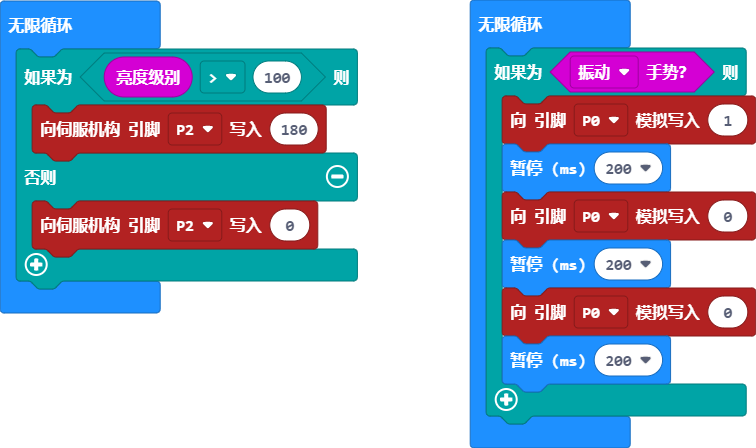
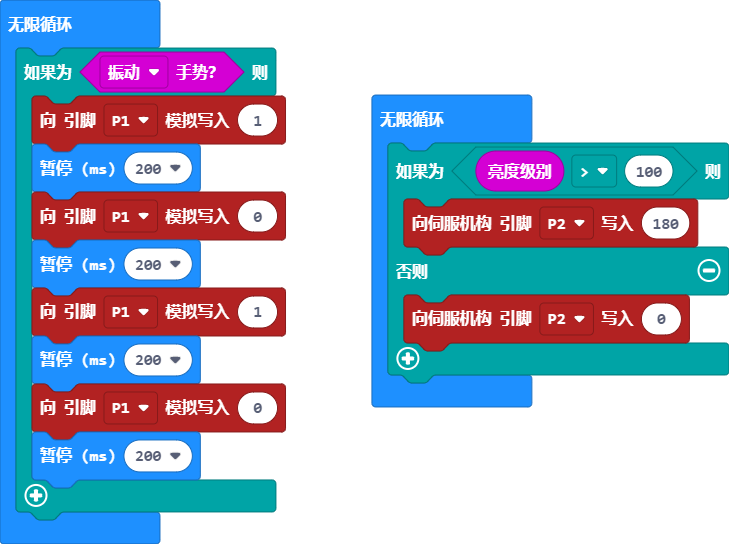
更新 pxt.json, main.blocks, main.ts

diff --git a/main.ts b/main.ts
@@ -1,17 +1,19 @@
 basic.forever(function () {
+    if (input.isGesture(Gesture.Shake)) {
+        pins.analogWritePin(AnalogPin.P1, 1)
+        basic.pause(200)
+        pins.analogWritePin(AnalogPin.P1, 0)
+        basic.pause(200)
+        pins.analogWritePin(AnalogPin.P1, 1)
+        basic.pause(200)
+        pins.analogWritePin(AnalogPin.P1, 0)
+        basic.pause(200)
+    }
+})
+basic.forever(function () {
     if (input.lightLevel() > 100) {
         pins.servoWritePin(AnalogPin.P2, 180)
     } else {
         pins.servoWritePin(AnalogPin.P2, 0)
-    }
-})
-basic.forever(function () {
-    if (input.isGesture(Gesture.Shake)) {
-        pins.analogWritePin(AnalogPin.P0, 1)
-        basic.pause(200)
-        pins.analogWritePin(AnalogPin.P0, 0)
-        basic.pause(200)
-        pins.analogWritePin(AnalogPin.P0, 0)
-        basic.pause(200)
     }
 })
